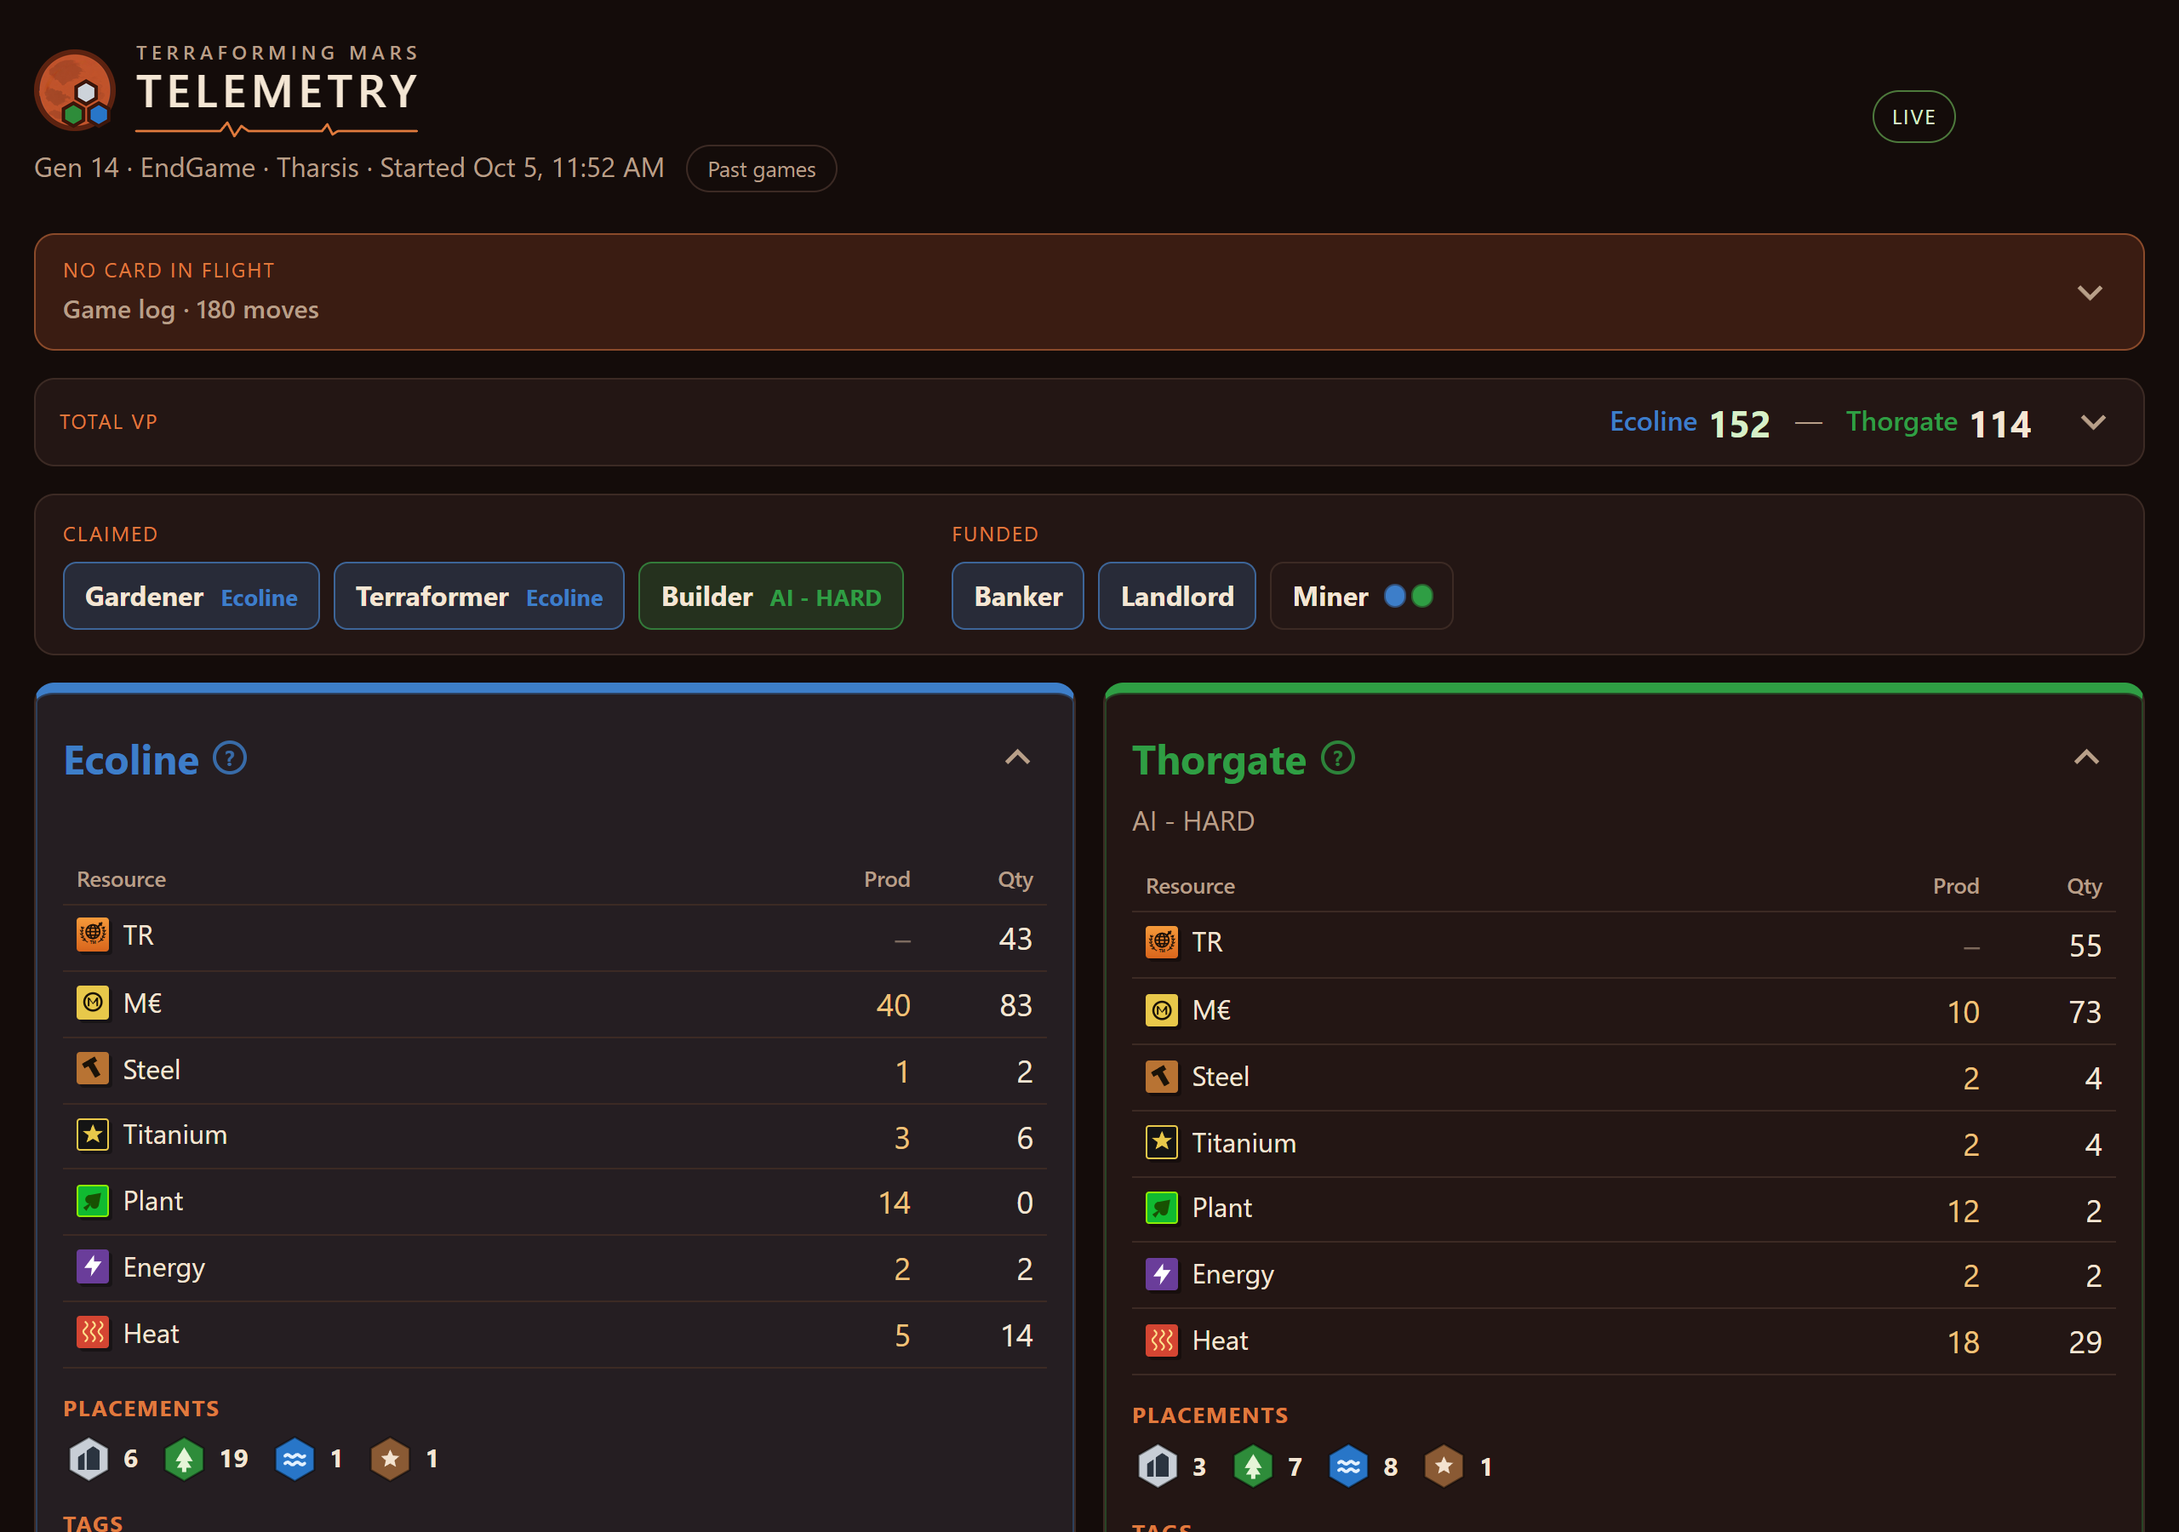
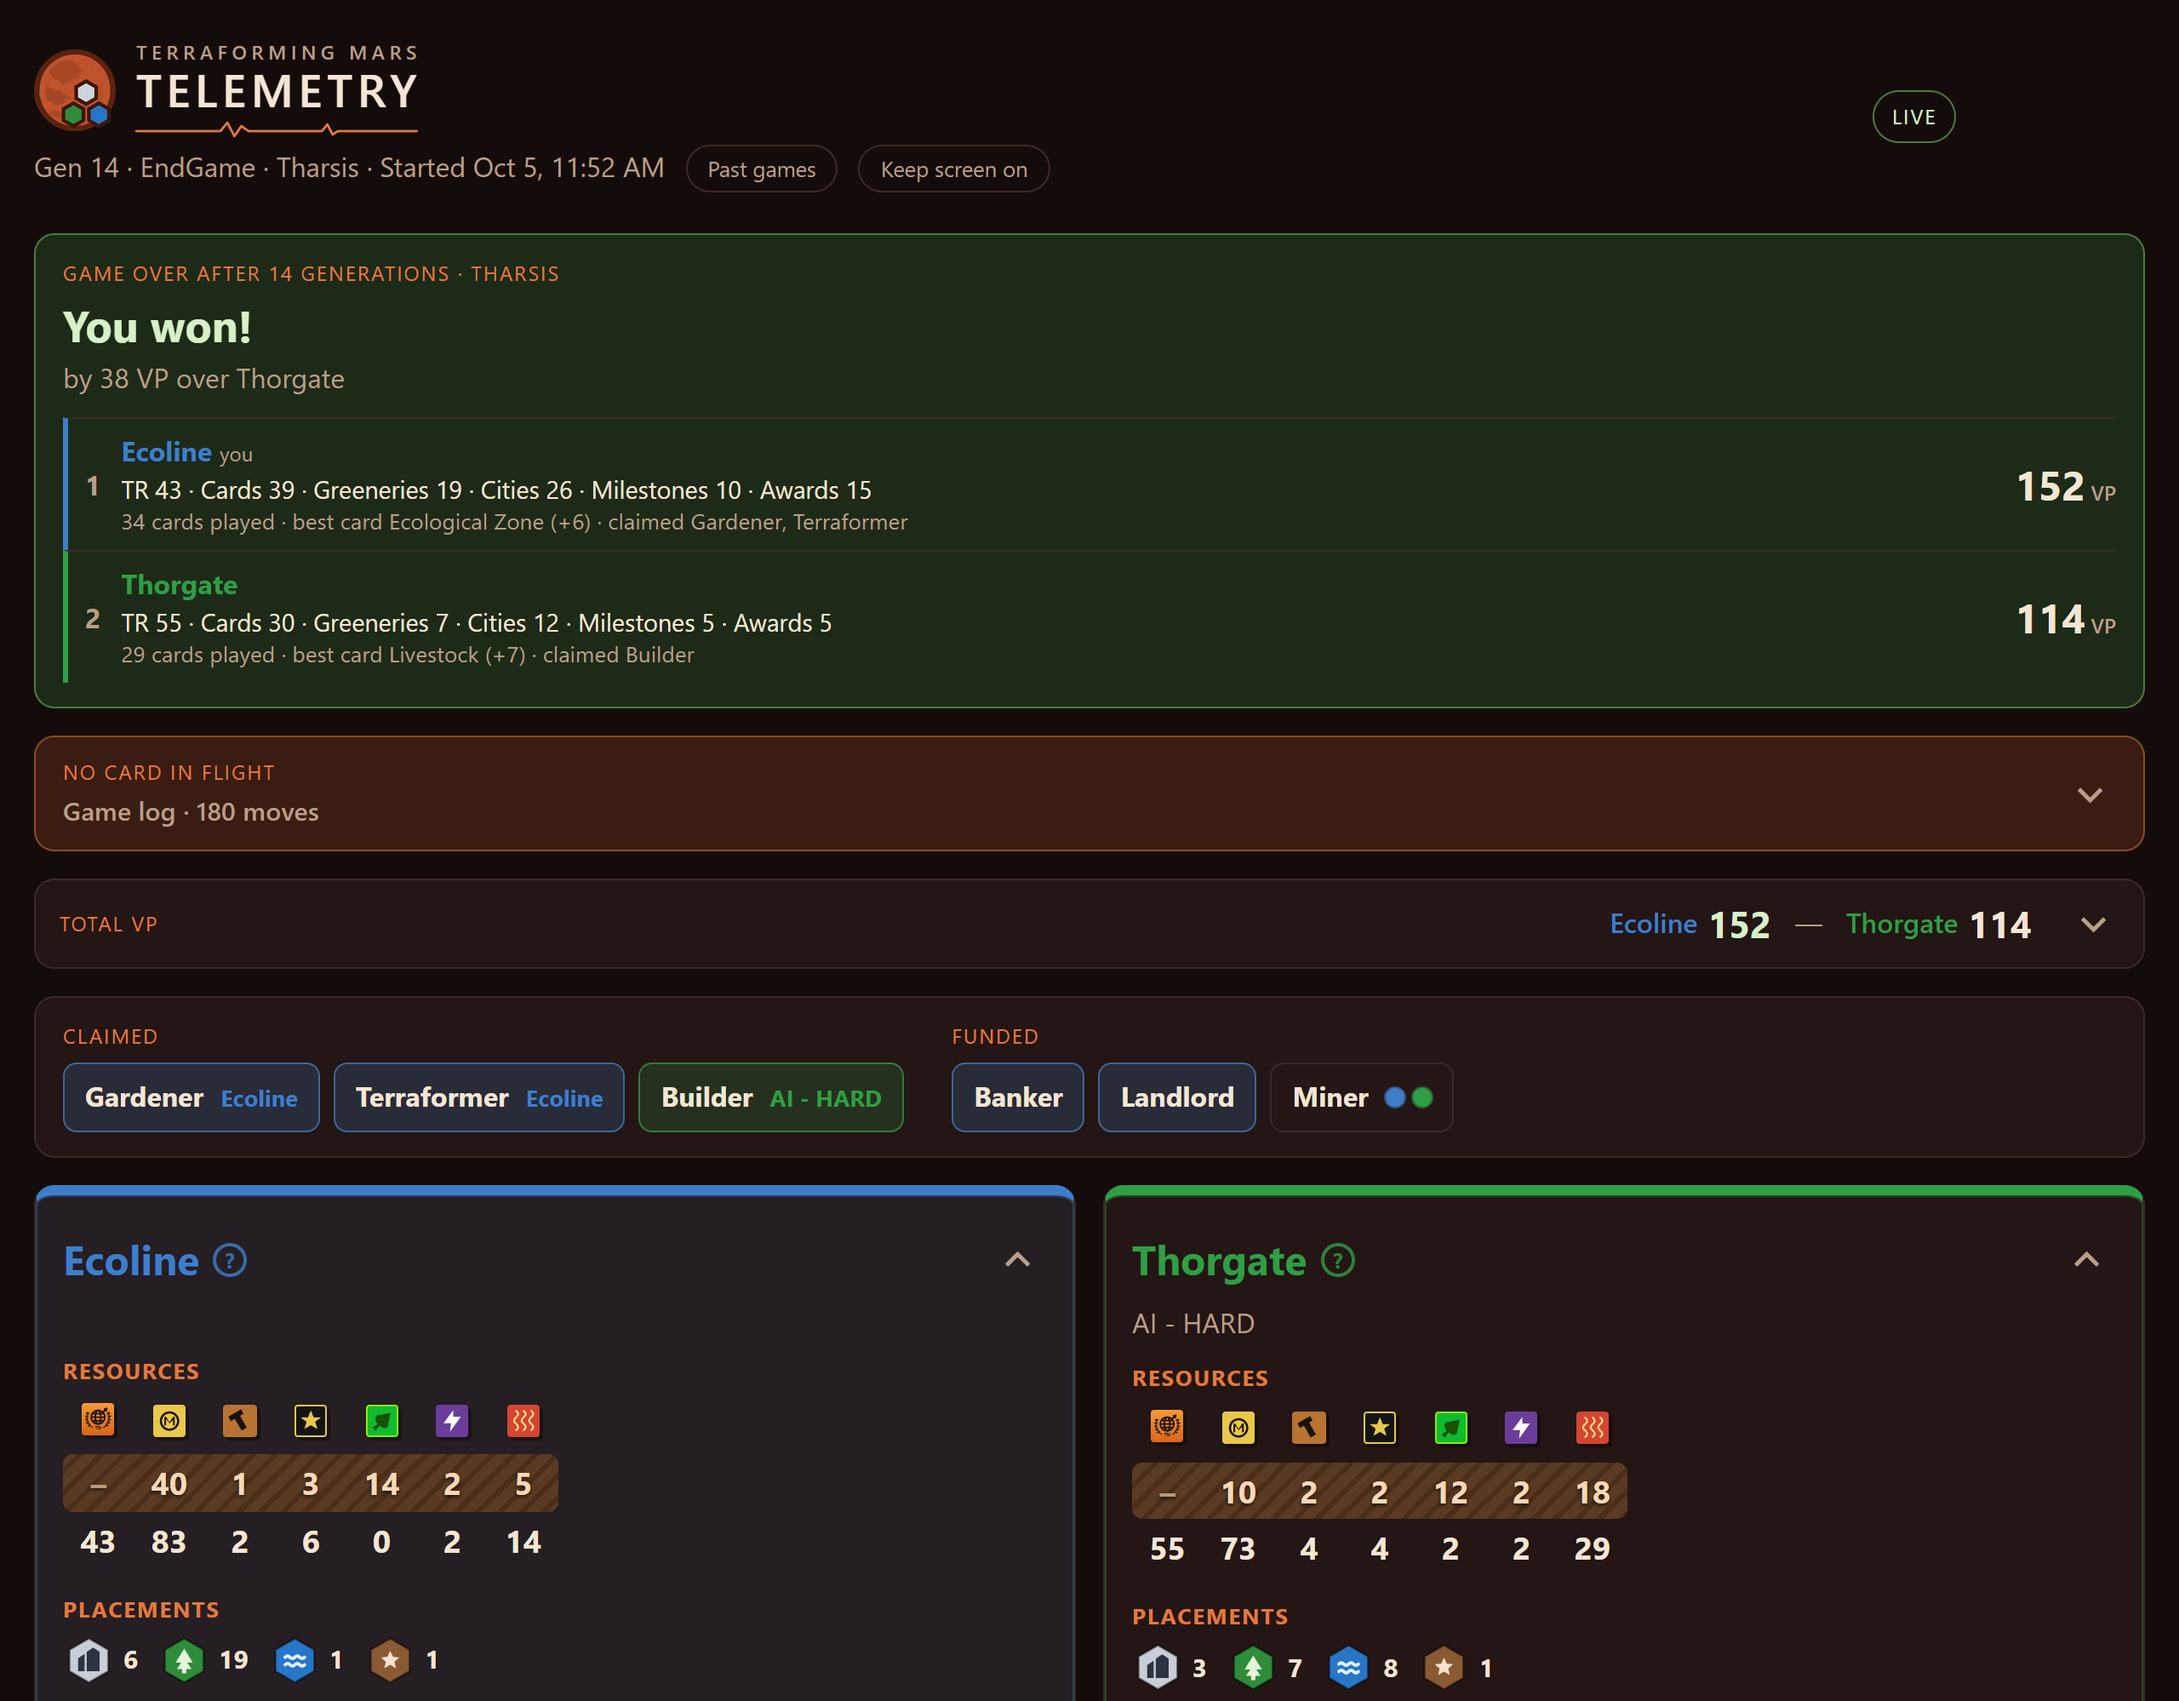
Homepage screenshots show the new Resources rows and game-over summary
Retake the overview and phone screenshots in the current UI. Hide the QR code on phone-width screens, where it pushed the header past the edge.

diff --git a/docs/index.html b/docs/index.html
@@ -203,7 +203,7 @@
       </div>
       <p class="fine">Free &middot; Windows installer &middot; No account, no sign-up</p>
       <div class="hero-shot shot">
-        <img src="screenshots/overview.png" width="2560" height="1800" alt="The dashboard showing two players' resources and production, claimed milestones, funded awards and the running VP total">
+        <img src="screenshots/overview.png" width="2560" height="1998" alt="The dashboard after a finished game: the game-over summary, claimed milestones, funded awards, and each player's resources and production">
       </div>
     </div>
   </div>
@@ -224,6 +224,7 @@
             <li>Charts of score, production and resources by generation</li>
             <li>Tap a generation to see what changed</li>
             <li>Spot the moment the game turned</li>
+            <li>A game-over summary with the winner, or whether you terraformed Mars in a solo game</li>
           </ul>
         </div>
         <div class="shot"><img src="screenshots/scoreboard.png" width="2528" height="1980" loading="lazy" alt="Score breakdown table and a VP-per-generation chart for two players"></div>
@@ -248,7 +249,7 @@
           <p>Only one screen? Scan the QR code in the dashboard's header and it opens on any phone or tablet on your Wi-Fi. The layout is built to fit a phone.</p>
           <p>Prop it up next to the keyboard and keep the game full-screen.</p>
         </div>
-        <div class="phone-frame"><img src="screenshots/phone.png" width="780" height="1688" loading="lazy" alt="The dashboard on a phone-sized screen"></div>
+        <div class="phone-frame"><img src="screenshots/phone.png" width="780" height="1688" loading="lazy" alt="The scoreboard, milestones and a player's resources on a phone-sized screen"></div>
       </div>
     </div>
   </section>

diff --git a/src/main/resources/web/style.css b/src/main/resources/web/style.css
@@ -119,6 +119,8 @@ h1.brand { margin: 0; display: flex; align-items: center; gap: 12px; font-weight
 .viewing-back:hover { background: #4a360e; }
 @media (max-width: 700px) { .games-row { grid-template-columns: 1fr; } }
 .top-right { display: flex; align-items: center; gap: 14px; }
+/* A phone already has the page open, and the code pushed the header past a phone's width. */
+@media (max-width: 600px) { .qr-col { display: none; } }
 .live { padding: 6px 10px; border: 1px solid var(--line); border-radius: 999px; color: var(--muted); text-transform: uppercase; font-size: 0.75rem; letter-spacing: 0.08em; }
 .live.on { color: #d7f0c8; border-color: #4d7a3c; }
 .live.bad { color: #f6c4c0; border-color: #a33a32; background: #3a1614; }

diff --git a/README.md b/README.md
@@ -14,7 +14,7 @@
 </p>
 
 <p align="center">
-  <img src="docs/screenshots/overview.png" alt="Dashboard showing two players' resources, production, milestones, awards and the running score" width="900">
+  <img src="docs/screenshots/overview.png" alt="Dashboard after a finished game: the game-over summary, milestones, awards and each player's resources and production" width="900">
 </p>
 
 While you play, Terraforming Mars Telemetry reads the game's local log and turns it into a live dashboard of
